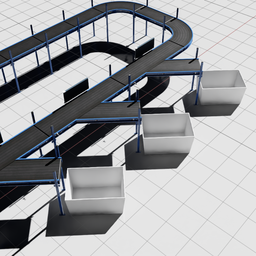
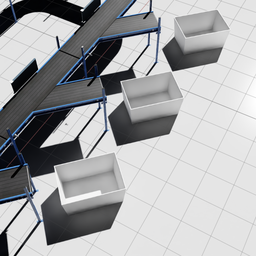
got the whole thing working!

diff --git a/AGG_TEST_EXTENSION_python/scenario.py b/AGG_TEST_EXTENSION_python/scenario.py
@@ -115,6 +115,7 @@ class PhotoeyeConveyorScript:
             carb.log_error("Could not create Light Beam Sensor")
             return
 
+        #this creates and connects the action graph for the first photoeye
         (self.action_graph1, new_nodes, _, _) = og.Controller.edit(
             {"graph_path": "/ActionGraph_1", "evaluator_name": "execution"},
             {
@@ -135,6 +136,7 @@ class PhotoeyeConveyorScript:
                 ],
             },
         )
+        #this creates and connects the action graph for the second photoeye
 
         (self.action_graph2, new_nodes, _, _) = og.Controller.edit(
             {"graph_path": "/ActionGraph_2", "evaluator_name": "execution"},
@@ -157,6 +159,7 @@ class PhotoeyeConveyorScript:
             },
         )
 
+        #this creates and connects the action graph for the third photoeye
         (self.action_graph3, new_nodes, _, _) = og.Controller.edit(
             {"graph_path": "/ActionGraph_3", "evaluator_name": "execution"},
             {
@@ -178,9 +181,8 @@ class PhotoeyeConveyorScript:
             },
         )
 
-
+        #This section adds a node to the conveyor 11 graph, a write node that allows you to write velocities to the conveyor via the graph variable.  
         self.conveyor_11_graph = og.get_graph_by_path(self.conveyor_11_path)
-
         og.Controller.edit(self.conveyor_11_graph,
                    {
                 og.Controller.Keys.CREATE_NODES: [
@@ -193,8 +195,6 @@ class PhotoeyeConveyorScript:
                 ]
                    }     
         )
-
-
         og.Controller.connect("/World/Conveyors/ConveyorTrack_11/ConveyorBeltGraph/OnTick.outputs:tick", "/World/Conveyors/ConveyorTrack_11/ConveyorBeltGraph/WriteVariable.inputs:execIn")
 
 
@@ -232,34 +232,71 @@ class PhotoeyeConveyorScript:
         except StopIteration:
             return True
 
-    def my_script(self):   
-        robot_prim_path = "/World/Kickers/kicker/"
+    def my_script(self):
 
-        self.articulation = Articulation(prim_path=robot_prim_path)
-        print(f"Articulation joints: {self.articulation.dof_names}")
+        #Set up the articulation objects for the 3 kickers   
+        kicker_prim_path = "/World/Kickers/kicker/"
+        kicker_01_prim_path = "/World/Kickers/kicker_01/"
+        kicker_02_prim_path = "/World/Kickers/kicker_02/"
 
+        self.kicker = Articulation(prim_path=kicker_prim_path)
+        self.kicker_01 = Articulation(prim_path=kicker_01_prim_path)
+        self.kicker_02 = Articulation(prim_path=kicker_02_prim_path)
 
+        #normally you wouldnt need to init these, but since we are creating them after scene is created we do
+        self.kicker.initialize()
+        self.kicker_01.initialize()
+        self.kicker_02.initialize()
+
+        
+
+        open_kicker = ArticulationAction(joint_positions=np.array([0.785]), joint_indices=np.array([0]))
+        close_kicker = ArticulationAction(joint_positions=np.array([0.0]), joint_indices=np.array([0]))
+
+        #the kicker manager class here only exists bc were opening and closing the conveyor in sort of a time-based sloppy way
+        self.kicker_manager = KickerManager(self.kicker, open_kicker,close_kicker)
+        self.kicker_01_manager = KickerManager(self.kicker_01, open_kicker,close_kicker)
+        self.kicker_02_manager = KickerManager(self.kicker_02, open_kicker,close_kicker)
+
+        #the sensor checker class manages state of the sensors and box measurements
         sensor_1 = SensorChecker(self._ls, self.sensor_1_path)
         sensor_2 = SensorChecker(self._ls, self.sensor_2_path)
         sensor_3 = SensorChecker(self._ls, self.sensor_3_path)
+
+        #Box spawner set up here and called in main loop to periodically spawn types of boxes
         spawner = BoxSpawner()
 
-        open_kicker = ArticulationAction(joint_positions=np.array([45.0]), joint_indices=np.array([0]))
 
         while True:
 
+            #Checking the sensors also keeps a running track of boxes they are measuring
             sensor_1.check_sensor_once()
             sensor_2.check_sensor_once()
             sensor_3.check_sensor_once()
             #print(sensor_1.cube_length)
 
-            if 0.2< sensor_1.cube_length < 0.6:
-                print(f"first gate triggered. Box length: {sensor_1.cube_length}")
-                self.articulation.apply_action(open_kicker)
+            if 0.15< sensor_1.cube_length < 0.25:
+
+                print(f"First gate triggered. Box length: {sensor_1.cube_length}")
+                self.kicker_manager.open_kicker_action()
                 sensor_1.update_cube_length(0.0)
 
+            if 0.25< sensor_2.cube_length < 0.35:
 
+                print(f"Second gate triggered. Box length: {sensor_2.cube_length}")
+                self.kicker_01_manager.open_kicker_action()
+                sensor_2.update_cube_length(0.0)
 
+            if 0.35< sensor_3.cube_length < 0.45:
+
+                print(f"Third gate triggered. Box length: {sensor_3.cube_length}")
+                self.kicker_02_manager.open_kicker_action()
+                sensor_3.update_cube_length(0.0)
+
+            #These will re-open the kicker after X seconds since they were closed
+            self.kicker_manager.check_kicker(5.0)
+            self.kicker_01_manager.check_kicker(5.0)
+            self.kicker_02_manager.check_kicker(5.0)
 
 
             spawner.spawn_box_once()
@@ -327,8 +364,8 @@ class BoxSpawner:
     def __init__(self):
         # Initialize the box types with dimensions and colors
         self.box_types = [
-            {'dims': np.array([0.4, 0.4, 0.4]), 'color': np.array([1.0, 0.0, 0.0])},  # Red Box
-            {'dims': np.array([0.4, 0.4, 0.4]), 'color': np.array([0.0, 1.0, 0.0])},  # Green Box
+            {'dims': np.array([0.2, 0.2, 0.2]), 'color': np.array([1.0, 0.0, 0.0])},  # Red Box
+            {'dims': np.array([0.3, 0.3, 0.3]), 'color': np.array([0.0, 1.0, 0.0])},  # Green Box
             {'dims': np.array([0.4, 0.4, 0.4]), 'color': np.array([0.0, 0.0, 1.0])}   # Blue Box
         ]
         
@@ -345,7 +382,7 @@ class BoxSpawner:
         current_time = og.Controller.attribute("/World/Conveyors/ConveyorTrack_11/ConveyorBeltGraph/OnTick.outputs:time").get()
         
         # Check if more than 3 seconds have passed since the last box was spawned
-        if (current_time - self.initial_time) > 2.0:
+        if (current_time - self.initial_time) > 4.0:
             # Update the initial time to the current time
             self.initial_time = og.Controller.attribute("/World/Conveyors/ConveyorTrack_11/ConveyorBeltGraph/OnTick.outputs:time").get()
             
@@ -371,6 +408,41 @@ class BoxSpawner:
             self.spawn_box_once()
             yield ()  # To maintain compatibility with generator functions if needed
 
+
+class KickerManager:
+    def __init__(self, kicker, open_kicker, close_kicker):
+        self.kicker = kicker
+        self.open_kicker = open_kicker
+        self.close_kicker = close_kicker
+        self.initial_time = 0.0
+        self.kicker_state = "closed"  # Track the kicker state
+
+    # Method to record the current time when kicker opens
+    def open_kicker_action(self):
+        self.initial_time = og.Controller.attribute("/World/Conveyors/ConveyorTrack_11/ConveyorBeltGraph/OnTick.outputs:time").get()
+        self.kicker_state = "open"
+        print(f"Kicker opened at time: {self.initial_time}")
+        # Perform the actual kicker open action here
+        self.kicker.apply_action(self.open_kicker)
+
+    # Method to check if it's time to open the kicker
+    def check_kicker(self, duration):
+
+        if self.kicker_state == "open":
+            current_time = og.Controller.attribute("/World/Conveyors/ConveyorTrack_11/ConveyorBeltGraph/OnTick.outputs:time").get()
+            
+            # Check if the required duration has passed since the last action
+            if self.initial_time is not None and (current_time - self.initial_time) >= duration:
+                if self.kicker_state == "open":
+                    self.close_kicker_action()  
+                    
+    # Method to close the kicker (if needed)
+    def close_kicker_action(self):
+        self.kicker_state = "closed"
+        print(f"Kicker closed at time: {self.initial_time}")
+        # Perform the actual close action for the kicker
+        self.kicker.apply_action(self.close_kicker)
+        
 
 
             
